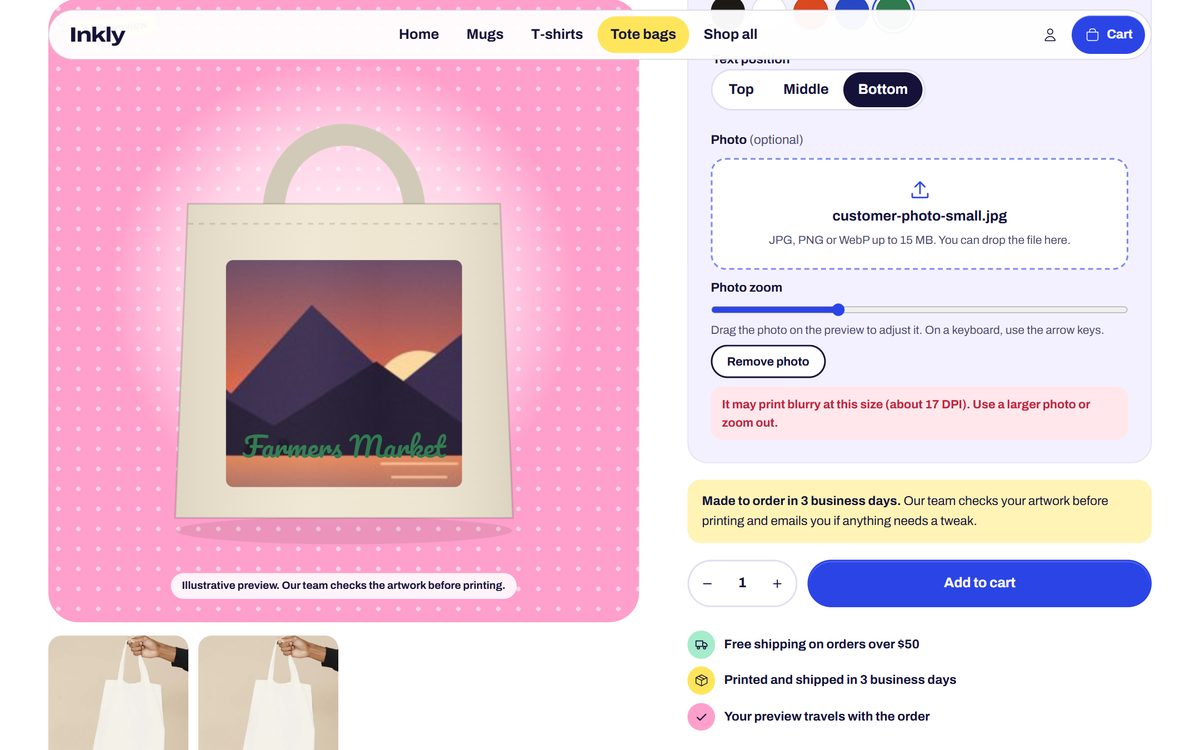
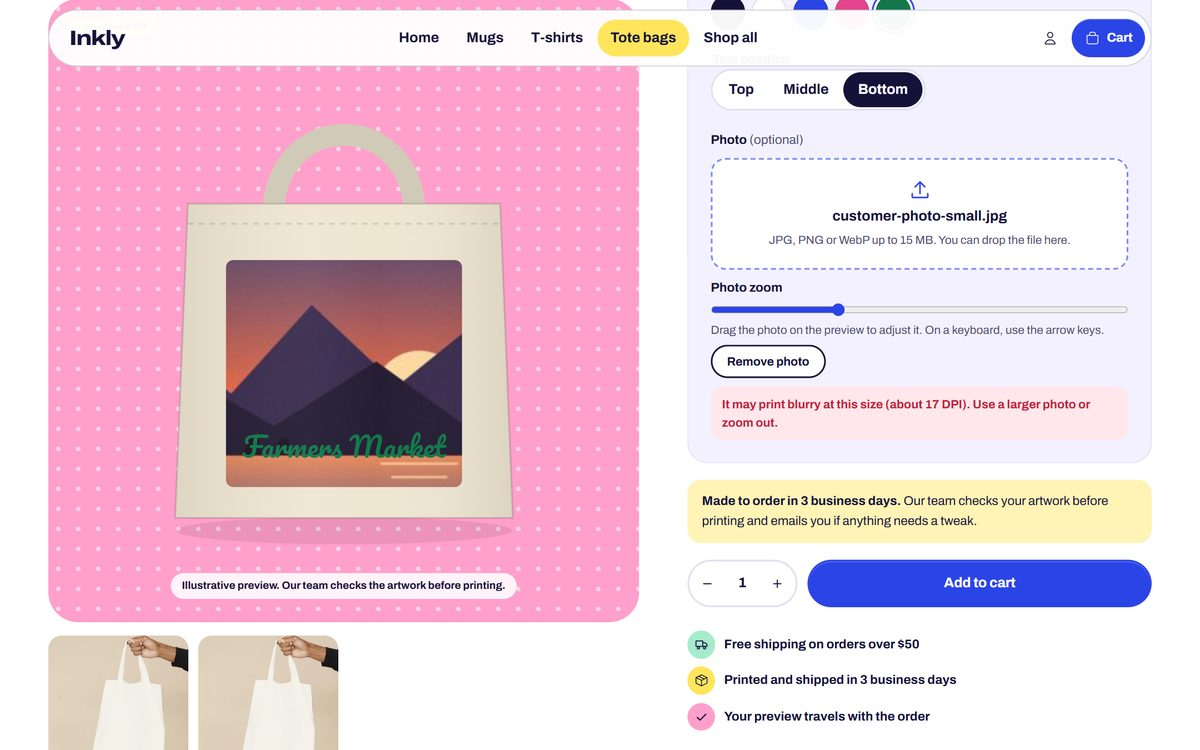
Finish review fixes: the hero print reads as ink (lighter fill, sized to the mug face) and the ribbon sits off the mug; the quality note is a hanging mint tag (hidden on phones); tags are punched with a mask; the product stage loses its white glow; default text colors move to the palette (ink, white

diff --git a/assets/cart.css b/assets/cart.css
@@ -245,15 +245,15 @@
   display: block;
   width: 100%;
   height: 100%;
-  transform: scaleX(calc(var(--progress) / 100));
-  transform-origin: left center;
+  border-radius: inherit;
+  clip-path: inset(0 calc(100% - var(--progress) * 1%) 0 0 round 999px);
   background: linear-gradient(
     180deg,
     color-mix(in srgb, var(--color-accent) 70%, #fff) 0%,
     var(--color-accent) 35%,
     color-mix(in srgb, var(--color-accent) 80%, #000) 100%
   );
-  transition: transform 0.7s var(--ease-out);
+  transition: clip-path 0.7s var(--ease-out);
 }
 
 .shipping-bar__bow {
@@ -283,9 +283,6 @@
 @keyframes bow-tie {
   0% {
     transform: translateY(-55%) rotate(-30deg) scale(0.3);
-  }
-  60% {
-    transform: translateY(-55%) rotate(10deg) scale(1.25);
   }
 }
 
@@ -497,11 +494,13 @@
 }
 
 .cart-upsell__title {
+  display: -webkit-box;
   overflow: hidden;
   font-weight: 700;
+  line-height: 1.25;
   text-decoration: none;
-  text-overflow: ellipsis;
-  white-space: nowrap;
+  -webkit-box-orient: vertical;
+  -webkit-line-clamp: 2;
 }
 
 .cart-upsell .button--secondary {

diff --git a/assets/critical.css b/assets/critical.css
@@ -353,22 +353,8 @@ a:hover {
   line-height: 1.2;
   letter-spacing: 0.01em;
   position: relative;
-  outline: 1px solid rgb(21 18 58 / 0.12);
-  outline-offset: -1px;
-}
-
-.badge::before,
-.tag::before {
-  content: '';
-  position: absolute;
-  left: 0.42rem;
-  top: 50%;
-  width: 0.42rem;
-  height: 0.42rem;
-  margin-top: -0.21rem;
-  border-radius: 50%;
-  background: color-mix(in srgb, var(--tag-fg) 22%, transparent);
-  box-shadow: inset 0 1px 0 rgb(0 0 0 / 0.25);
+  -webkit-mask: radial-gradient(circle at 0.62rem 50%, transparent 0.2rem, #000 calc(0.2rem + 0.5px));
+  mask: radial-gradient(circle at 0.62rem 50%, transparent 0.2rem, #000 calc(0.2rem + 0.5px));
 }
 
 .tag--lemon {

diff --git a/assets/product.css b/assets/product.css
@@ -185,19 +185,6 @@ input:focus-visible + .variant-picker__chip {
   background-size: 24px 24px;
 }
 
-.personalizer-stage::before {
-  content: '';
-  position: absolute;
-  left: 50%;
-  top: 47%;
-  width: 80%;
-  aspect-ratio: 1;
-  border-radius: 50%;
-  background: radial-gradient(circle, rgb(255 255 255 / 0.95) 0%, rgb(255 255 255 / 0.55) 45%, rgb(255 255 255 / 0) 70%);
-  transform: translate(-50%, -50%);
-  pointer-events: none;
-}
-
 .personalizer-stage > * {
   position: relative;
 }

diff --git a/assets/hero.js b/assets/hero.js
@@ -8,8 +8,8 @@
   const namesNode = document.querySelector('[data-hero-names]');
   const names = (namesNode ? JSON.parse(namesNode.textContent) : []).map((name) => name.trim()).filter(Boolean);
   const reduced = matchMedia('(prefers-reduced-motion: reduce)').matches;
-  const BASE_SIZE = 64;
-  const MAX_LENGTH = 320;
+  const BASE_SIZE = 46;
+  const MAX_LENGTH = 300;
 
   const render = (value) => {
     path.textContent = value;

diff --git a/assets/section-steps.css b/assets/section-steps.css
@@ -67,6 +67,7 @@
 }
 
 .steps__item {
+  position: relative;
   display: grid;
   justify-items: start;
   align-content: start;
@@ -79,6 +80,9 @@
 }
 
 .steps__number {
+  position: absolute;
+  top: -0.85rem;
+  left: 1.25rem;
   font-size: 0.8rem;
 }
 
